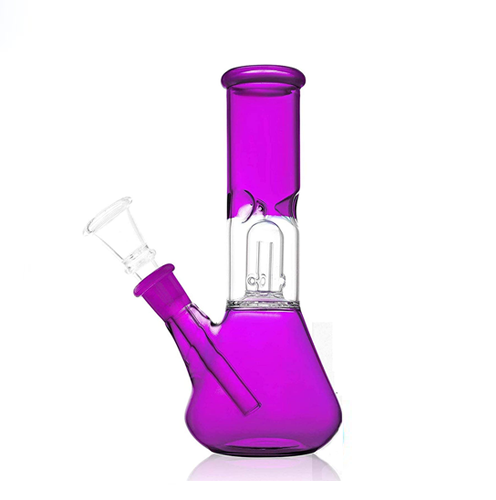
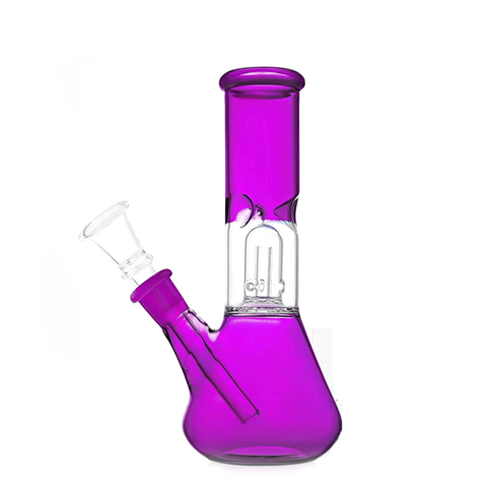
6756765

diff --git a/shop/bongs/index.html b/shop/bongs/index.html
@@ -845,7 +845,7 @@
 
 
                                         <div class="et_pb_blurb_content">
-                                            <div class="et_pb_main_blurb_image"><span class="et_pb_image_wrap et_pb_only_image_mode_wrap"><img width="1920" height="1920" src="https://www.herbalist.ml/img/products/bongs/12in-electro-8arm-perc-beaker.jpeg" alt="bong de aveja"   class="et-waypoint et_pb_animation_top et_pb_animation_top_tablet et_pb_animation_top_phone wp-image-2849 lazyload" data-src="https://www.herbalist.ml/img/products/bongs/12in-electro-8arm-perc-beaker.jpeg" loading="lazy" data-srcset="https://www.herbalist.ml/img/products/bongs/12in-electro-8arm-perc-beaker.jpeg 1920w, https://www.herbalist.ml/img/products/bongs/12in-electro-8arm-perc-beaker.jpeg 300w, https://www.herbalist.ml/img/products/bongs/12in-electro-8arm-perc-beaker.jpeg 1024w, https://www.herbalist.ml/img/products/bongs/12in-electro-8arm-perc-beaker.jpeg 150w, https://www.herbalist.ml/img/products/bongs/12in-electro-8arm-perc-beaker.jpeg 768w, https://www.herbalist.ml/img/products/bongs/12in-electro-8arm-perc-beaker.jpeg 1536w, https://www.herbalist.ml/img/products/bongs/12in-electro-8arm-perc-beaker.jpeg 1080w, https://www.herbalist.ml/img/products/bongs/12in-electro-8arm-perc-beaker.jpeg 1280w, https://www.herbalist.ml/img/products/bongs/12in-electro-8arm-perc-beaker.jpeg 980w, https://www.herbalist.ml/img/products/bongs/12in-electro-8arm-perc-beaker.jpeg 480w" data-sizes="auto" /><noscript><img width="1920" height="1920" src="https://www.herbalist.ml/img/products/bongs/12in-electro-8arm-perc-beaker.jpeg" alt="" srcset="https://www.herbalist.ml/img/products/bongs/12in-electro-8arm-perc-beaker.jpeg 1920w, https://www.herbalist.ml/img/products/bongs/12in-electro-8arm-perc-beaker.jpeg 300w, https://www.herbalist.ml/img/products/bongs/12in-electro-8arm-perc-beaker.jpeg 1024w, https://www.herbalist.ml/img/products/bongs/12in-electro-8arm-perc-beaker.jpeg 150w, https://www.herbalist.ml/img/products/bongs/12in-electro-8arm-perc-beaker.jpeg 768w, https://www.herbalist.ml/img/products/bongs/12in-electro-8arm-perc-beaker.jpeg 1536w, https://www.herbalist.ml/img/products/bongs/12in-electro-8arm-perc-beaker.jpeg 1080w, https://www.herbalist.ml/img/products/bongs/12in-electro-8arm-perc-beaker.jpeg 1280w, https://www.herbalist.ml/img/products/bongs/12in-electro-8arm-perc-beaker.jpeg 980w, https://www.herbalist.ml/img/products/bongs/12in-electro-8arm-perc-beaker.jpeg 480w" sizes="(max-width: 1080px) 100vw, 1080px" class="et-waypoint et_pb_animation_top et_pb_animation_top_tablet et_pb_animation_top_phone wp-image-2849" data-eio="l" /></noscript></span></div>
+                                            <div class="et_pb_main_blurb_image"><span class="et_pb_image_wrap et_pb_only_image_mode_wrap"><img width="1920" height="1920" src="https://www.herbalist.ml/img/products/bongs/12in-electro-8arm-perc-beaker.jpeg?v2" alt="bong de aveja"   class="et-waypoint et_pb_animation_top et_pb_animation_top_tablet et_pb_animation_top_phone wp-image-2849 lazyload" data-src="https://www.herbalist.ml/img/products/bongs/12in-electro-8arm-perc-beaker.jpeg?v2" loading="lazy" data-srcset="https://www.herbalist.ml/img/products/bongs/12in-electro-8arm-perc-beaker.jpeg?v2 1920w, https://www.herbalist.ml/img/products/bongs/12in-electro-8arm-perc-beaker.jpeg?v2 300w, https://www.herbalist.ml/img/products/bongs/12in-electro-8arm-perc-beaker.jpeg?v2 1024w, https://www.herbalist.ml/img/products/bongs/12in-electro-8arm-perc-beaker.jpeg?v2 150w, https://www.herbalist.ml/img/products/bongs/12in-electro-8arm-perc-beaker.jpeg?v2 768w, https://www.herbalist.ml/img/products/bongs/12in-electro-8arm-perc-beaker.jpeg?v2 1536w, https://www.herbalist.ml/img/products/bongs/12in-electro-8arm-perc-beaker.jpeg?v2 1080w, https://www.herbalist.ml/img/products/bongs/12in-electro-8arm-perc-beaker.jpeg?v2 1280w, https://www.herbalist.ml/img/products/bongs/12in-electro-8arm-perc-beaker.jpeg?v2 980w, https://www.herbalist.ml/img/products/bongs/12in-electro-8arm-perc-beaker.jpeg?v2 480w" data-sizes="auto" /><noscript><img width="1920" height="1920" src="https://www.herbalist.ml/img/products/bongs/12in-electro-8arm-perc-beaker.jpeg?v2" alt="" srcset="https://www.herbalist.ml/img/products/bongs/12in-electro-8arm-perc-beaker.jpeg?v2 1920w, https://www.herbalist.ml/img/products/bongs/12in-electro-8arm-perc-beaker.jpeg?v2 300w, https://www.herbalist.ml/img/products/bongs/12in-electro-8arm-perc-beaker.jpeg?v2 1024w, https://www.herbalist.ml/img/products/bongs/12in-electro-8arm-perc-beaker.jpeg?v2 150w, https://www.herbalist.ml/img/products/bongs/12in-electro-8arm-perc-beaker.jpeg?v2 768w, https://www.herbalist.ml/img/products/bongs/12in-electro-8arm-perc-beaker.jpeg?v2 1536w, https://www.herbalist.ml/img/products/bongs/12in-electro-8arm-perc-beaker.jpeg?v2 1080w, https://www.herbalist.ml/img/products/bongs/12in-electro-8arm-perc-beaker.jpeg?v2 1280w, https://www.herbalist.ml/img/products/bongs/12in-electro-8arm-perc-beaker.jpeg?v2 980w, https://www.herbalist.ml/img/products/bongs/12in-electro-8arm-perc-beaker.jpeg?v2 480w" sizes="(max-width: 1080px) 100vw, 1080px" class="et-waypoint et_pb_animation_top et_pb_animation_top_tablet et_pb_animation_top_phone wp-image-2849" data-eio="l" /></noscript></span></div>
                                             <div class="et_pb_blurb_container">
                                                 <h2 class="et_pb_module_header"><span>Jumbo Beaker Bong Tornasol - 40cm</span></h2>
                                                 <div class="et_pb_blurb_description">
